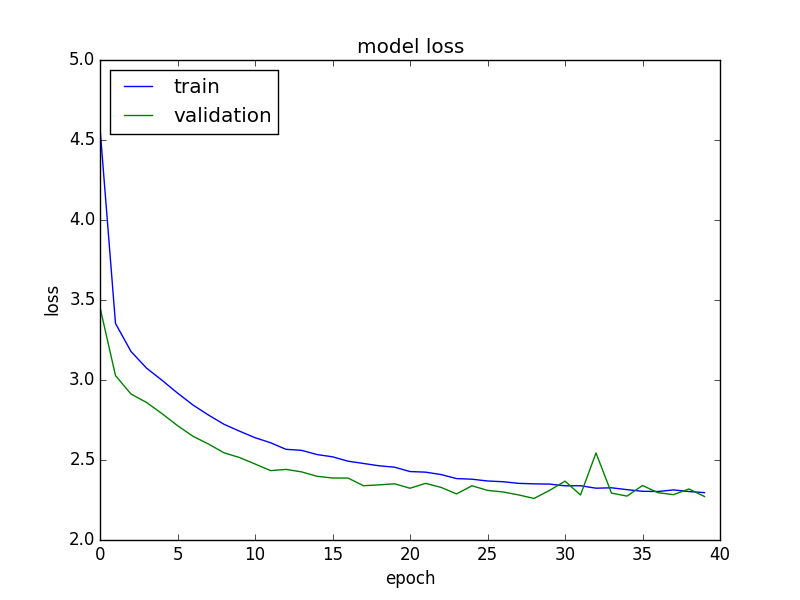
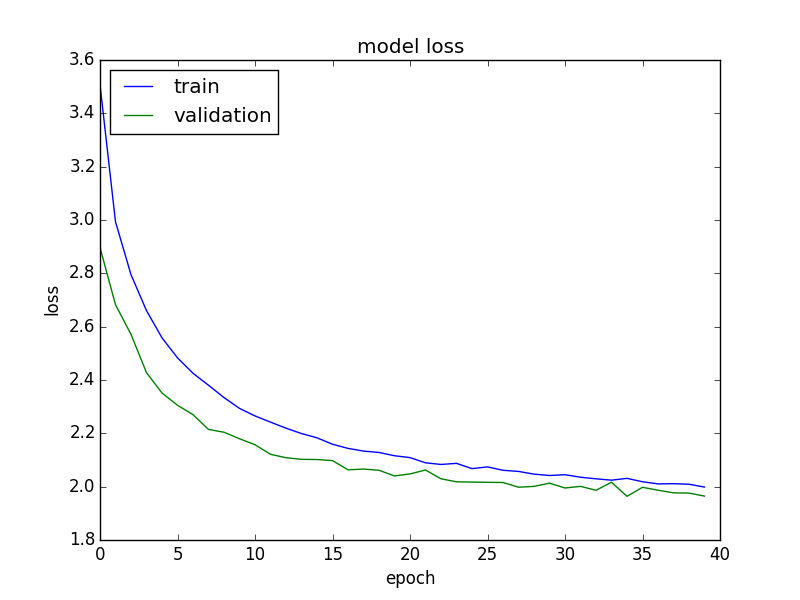
Experimento con escala de grises

diff --git a/convnet_1000/convnet_1000.py b/convnet_1000/convnet_1000.py
@@ -41,9 +41,7 @@ tst_path = "../dataset/dataset_1000/test/chars/"
 # En este generador metemos el aumentado.
 # TODO: Ojo que el generador de Train solo tiene que tener aumentado (Hay que hacer un generator para train, y un generator pelado para valid/test)
 img_generator = ImageDataGenerator(
-                    #rescale=1./255,
-                    #samplewise_center=True,
-                    #samplewise_std_normalization=True
+                    rescale=1./255
                     )
 
 # Viendo que hay dos formas que nadie se pone de acuerdo, tomo este orden que pusiste acá: validación para elegir hiperparámetros, test para el test final.
@@ -51,21 +49,22 @@ img_generator = ImageDataGenerator(
 trn_dataset = img_generator.flow_from_directory(
     trn_path,
     target_size=(img_rows, img_cols),
-    #color_mode='grayscale',
+    color_mode='grayscale',
     class_mode='categorical',
     batch_size=batch_size
+    #save_to_dir='/home/lpineda/img_test/'  # OJO: escribe muchas imagenes a disco
 )
 val_dataset = img_generator.flow_from_directory(
     val_path,
     target_size=(img_rows, img_cols),
-    #color_mode='grayscale',
+    color_mode='grayscale',
     class_mode='categorical',
     batch_size=batch_size
 )
 tst_dataset = img_generator.flow_from_directory(
     tst_path,
     target_size=(img_rows, img_cols),
-    #color_mode='grayscale',
+    color_mode='grayscale',
     class_mode='categorical',
     batch_size=batch_size
 )
@@ -105,17 +104,6 @@ model.compile(loss='categorical_crossentropy',
 model.summary()
 
 ####################################################################################################################
-# Save the model to a json file
-####################################################################################################################
-text_file = open('model.json', 'w')
-model_json = str(model.to_json())
-parsed_model_json = json.loads(model_json)
-text_file.write(json.dumps(parsed_model_json,  # JSON pretty print
-                           sort_keys=True,
-                           indent=4))
-text_file.close()
-
-####################################################################################################################
 # Start training
 ####################################################################################################################
 history = model.fit_generator(trn_dataset,
@@ -128,6 +116,17 @@ history = model.fit_generator(trn_dataset,
 
 scoreT = model.evaluate_generator(tst_dataset, testSamples)
 print("Test score: " + str(scoreT[0]) + "\nTest accuracy: " + str(scoreT[1]))
+
+####################################################################################################################
+# Save the model to a json file
+####################################################################################################################
+text_file = open('model.json', 'w')
+model_json = str(model.to_json())
+parsed_model_json = json.loads(model_json)
+text_file.write(json.dumps(parsed_model_json,  # JSON pretty print
+                           sort_keys=True,
+                           indent=4))
+text_file.close()
 
 ####################################################################################################################
 # Save some results to a text file
